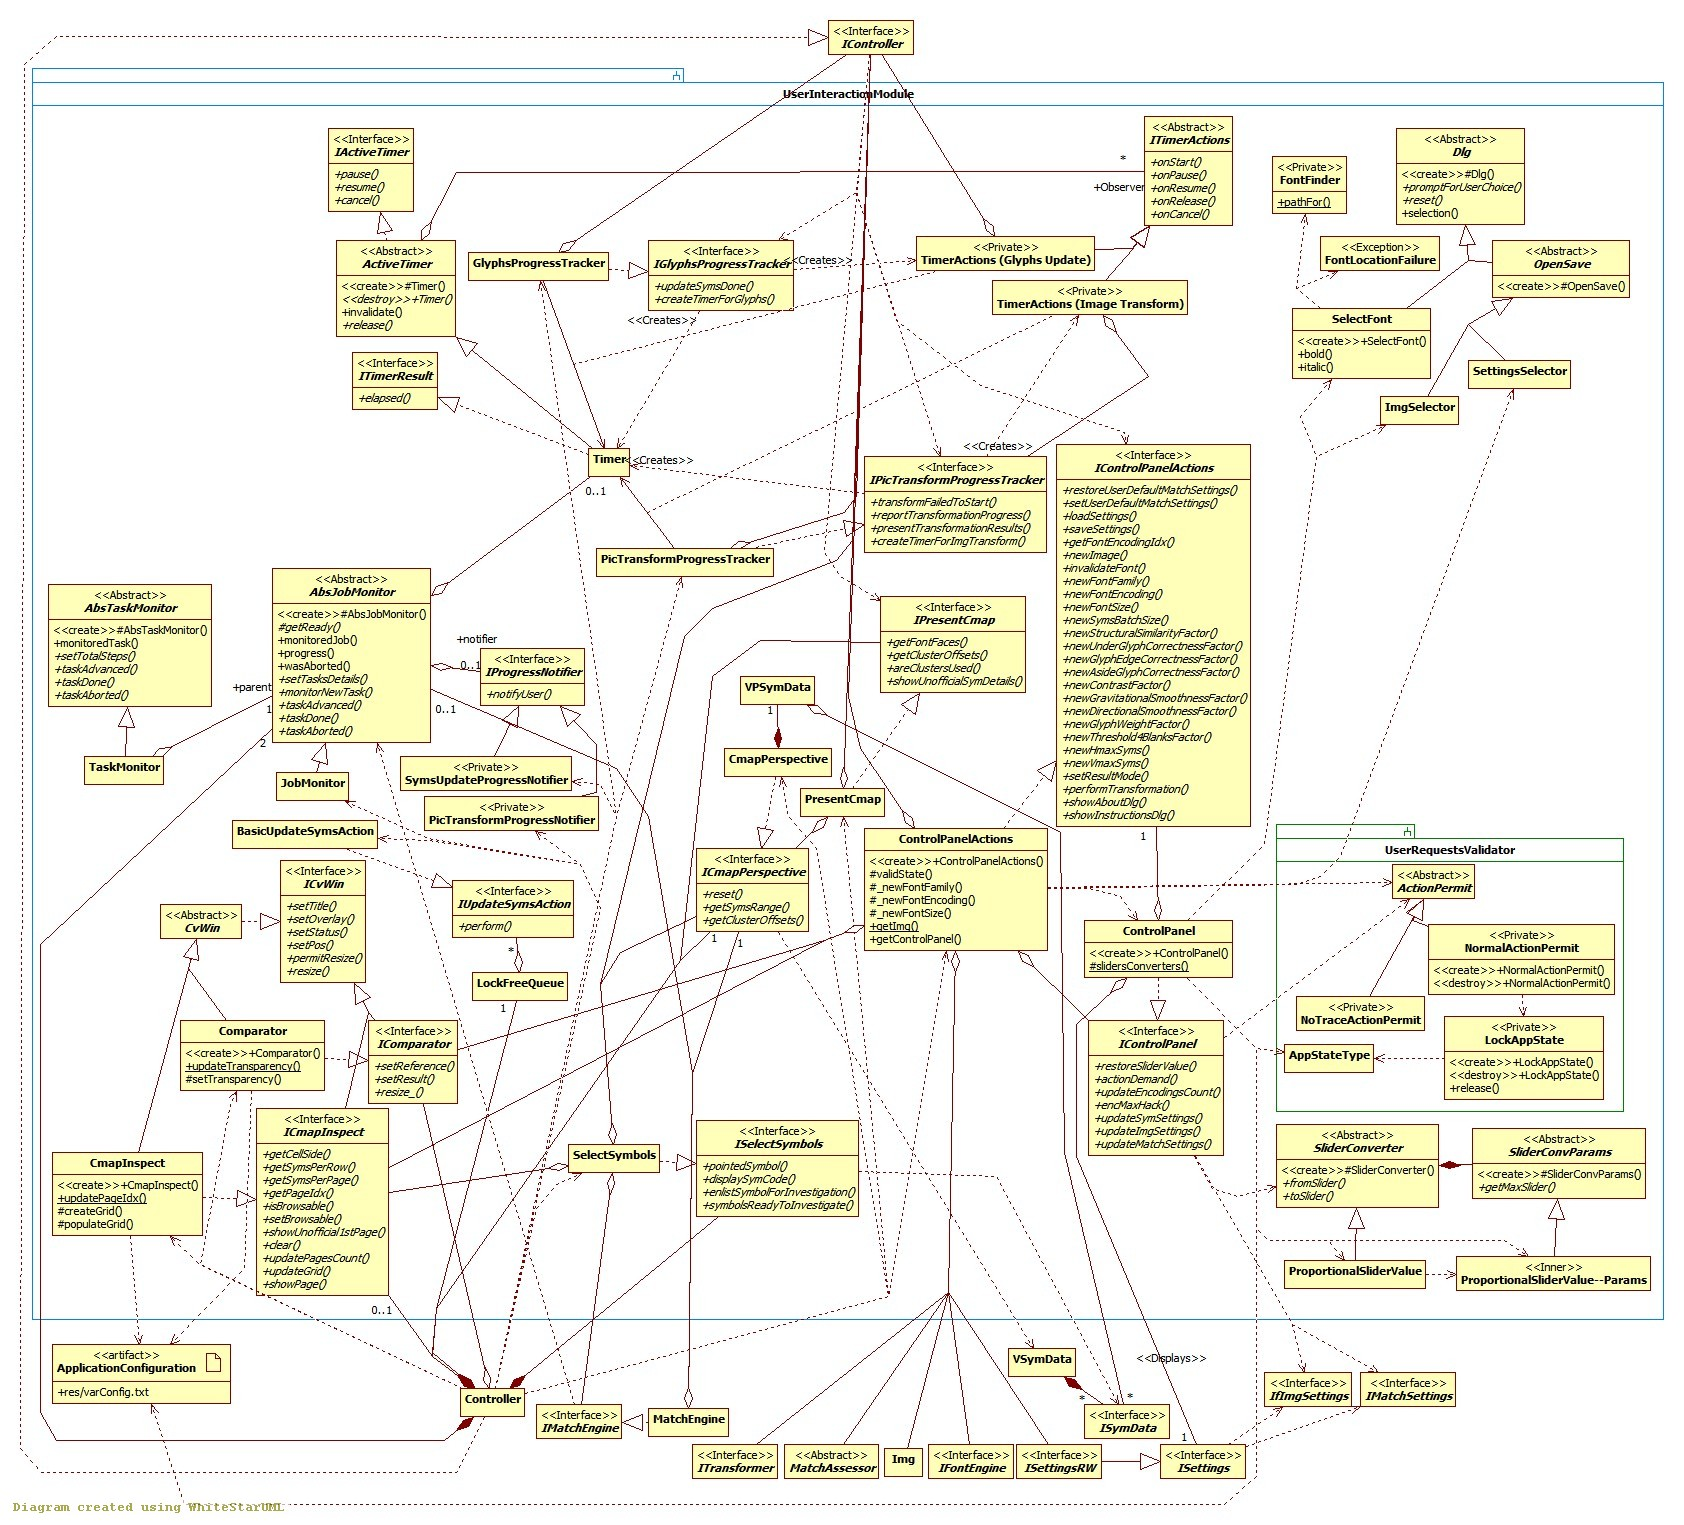
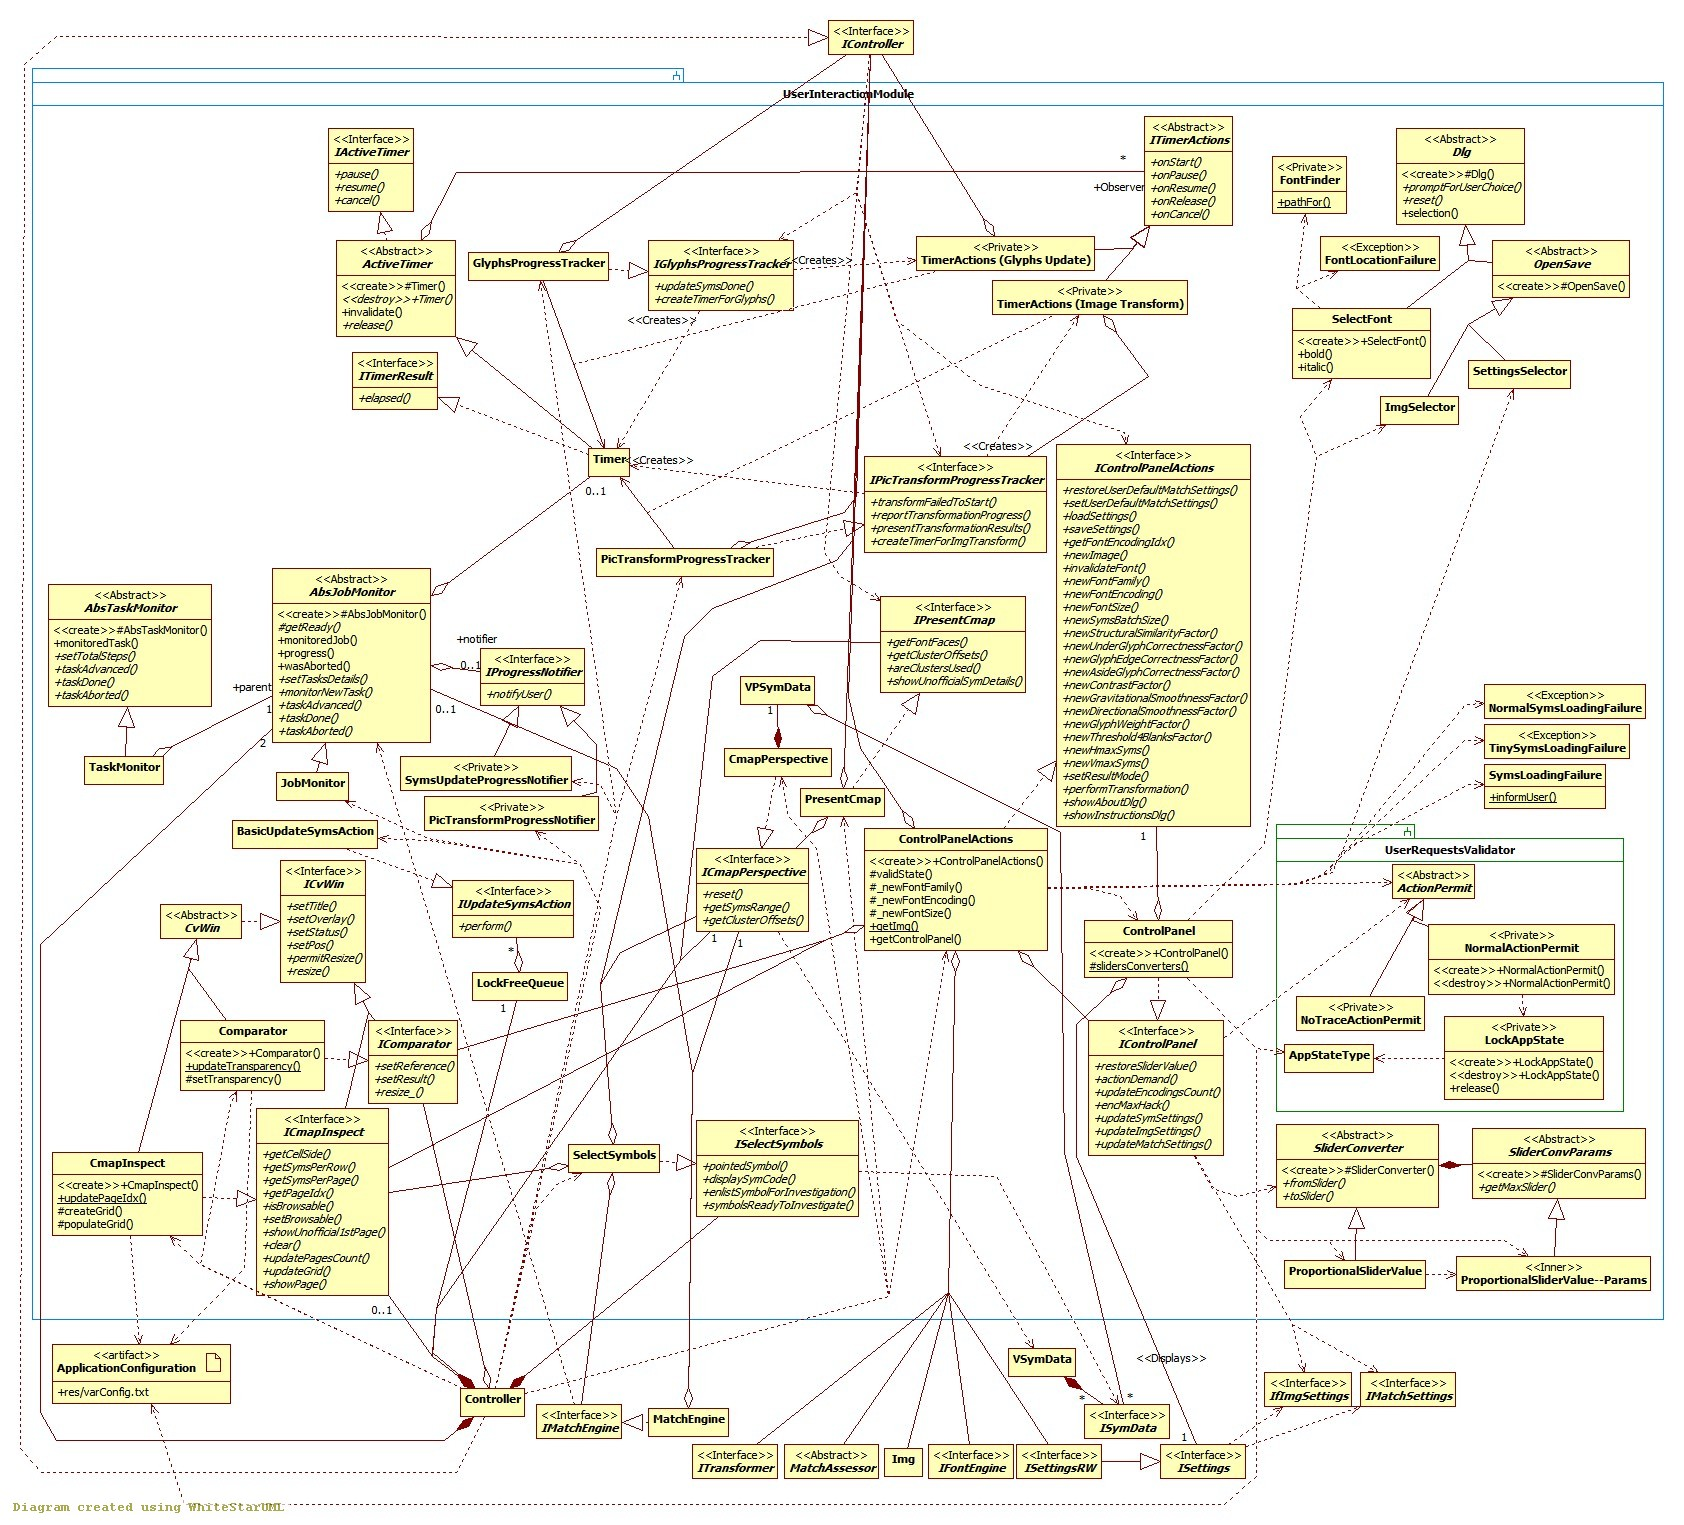
[design] Tackled the `Refused Bequest` findings around the SymsLoadingFailure class
This were issues detected by AI Reviewer.

Changed region(s): [[0.8646, 0.4315, 0.9881, 0.5548]]

diff --git a/src/controlPanelActions.cpp b/src/controlPanelActions.cpp
@@ -240,13 +240,15 @@ bool ControlPanelActions::loadSettings(const stringType &from/* = ""*/) {
 
 	try {
 		ctrler.symbolsChanged();
-	} catch(TinySymsLoadingFailure &tslf) {
+	} catch(TinySymsLoadingFailure&) {
 		invalidateFont();
-		tslf.informUser("Couldn't load the tiny versions of the font pointed by this settings file!");
+		SymsLoadingFailure::informUser("Couldn't load the tiny versions of the font pointed "
+									   "by this settings file!");
 		return false;
-	} catch(NormalSymsLoadingFailure &nslf) {
+	} catch(NormalSymsLoadingFailure&) {
 		invalidateFont();
-		nslf.informUser("Couldn't load the normal versions of the font pointed by this settings file!");
+		SymsLoadingFailure::informUser("Couldn't load the normal versions of the font pointed "
+									   "by this settings file!");
 		return false;
 	}
 
@@ -379,12 +381,14 @@ void ControlPanelActions::newFontFamily(const stringType &fontFile) {
 
 	try {
 		ctrler.symbolsChanged();
-	} catch(TinySymsLoadingFailure &tslf) {
+	} catch(TinySymsLoadingFailure&) {
 		invalidateFont();
-		tslf.informUser("Couldn't load the tiny versions of the newly selected font family!");
-	} catch(NormalSymsLoadingFailure &nslf) {
+		SymsLoadingFailure::informUser("Couldn't load the tiny versions "
+									   "of the newly selected font family!");
+	} catch(NormalSymsLoadingFailure&) {
 		invalidateFont();
-		nslf.informUser("Couldn't load the normal versions of the newly selected font family!");
+		SymsLoadingFailure::informUser("Couldn't load the normal versions "
+									   "of the newly selected font family!");
 	}
 }
 
@@ -408,12 +412,14 @@ void ControlPanelActions::newFontEncoding(int encodingIdx) {
 
 	try {
 		ctrler.symbolsChanged();
-	} catch(TinySymsLoadingFailure &tslf) {
+	} catch(TinySymsLoadingFailure&) {
 		invalidateFont();
-		tslf.informUser("Couldn't load the tiny versions of the font whose encoding has been updated!");
-	} catch(NormalSymsLoadingFailure &nslf) {
+		SymsLoadingFailure::informUser("Couldn't load the tiny versions of the font "
+									   "whose encoding has been updated!");
+	} catch(NormalSymsLoadingFailure&) {
 		invalidateFont();
-		nslf.informUser("Couldn't load the normal versions of the font whose encoding has been updated!");
+		SymsLoadingFailure::informUser("Couldn't load the normal versions of the font "
+									   "whose encoding has been updated!");
 	}
 }
 
@@ -427,13 +433,15 @@ bool ControlPanelActions::newFontEncoding(const stringType &encName) {
 	if(result) {
 		try {
 			ctrler.symbolsChanged();
-		} catch(TinySymsLoadingFailure &tslf) {
+		} catch(TinySymsLoadingFailure&) {
 			invalidateFont();
-			tslf.informUser("Couldn't load the tiny versions of the font whose encoding has been updated!");
+			SymsLoadingFailure::informUser("Couldn't load the tiny versions of the font "
+										   "whose encoding has been updated!");
 			return false;
-		} catch(NormalSymsLoadingFailure &nslf) {
+		} catch(NormalSymsLoadingFailure&) {
 			invalidateFont();
-			nslf.informUser("Couldn't load the normal versions of the font whose encoding has been updated!");
+			SymsLoadingFailure::informUser("Couldn't load the normal versions of the font "
+										   "whose encoding has been updated!");
 			return false;
 		}
 	}
@@ -480,12 +488,13 @@ void ControlPanelActions::newFontSize(int fontSz) {
 
 	try {
 		ctrler.symbolsChanged();
-	} catch(TinySymsLoadingFailure &tslf) {
+	} catch(TinySymsLoadingFailure&) {
 		invalidateFont();
-		tslf.informUser("Couldn't load the tiny versions of the font whose size has been updated!");
-	} catch(NormalSymsLoadingFailure &nslf) {
+		SymsLoadingFailure::informUser("Couldn't load the tiny versions of the font "
+									   "whose size has been updated!");
+	} catch(NormalSymsLoadingFailure&) {
 		invalidateFont();
-		nslf.informUser("Couldn't load the requested size versions of the fonts!");
+		SymsLoadingFailure::informUser("Couldn't load the requested size versions of the fonts!");
 	}
 }
 

diff --git a/src/symsLoadingFailure.h b/src/symsLoadingFailure.h
@@ -45,30 +45,31 @@
 
 #pragma warning ( pop )
 
-/// Base exception class for easier catching and handling failures while loading normal / tiny symbols
-class SymsLoadingFailure /*abstract*/ : public std::runtime_error {
-protected:
-	explicit SymsLoadingFailure(const std::stringType &_Message);
-	explicit SymsLoadingFailure(const char *_Message);
-
-public:
-#ifdef AI_REVIEWER_CHECK // Without this virtual destructor, AI Reviewer signals Refused Bequest for the derived types
-	virtual ~SymsLoadingFailure() = 0 {}
-#endif // AI_REVIEWER_CHECK defined
-
-	void informUser(const std::stringType &msg) const; ///< informs the user about the problem
-};
-
-/// Distinct exception class for easier catching and handling failures while loading tiny symbols
-struct TinySymsLoadingFailure : SymsLoadingFailure {
+/// Catching and handling failures while loading tiny symbols.
+struct TinySymsLoadingFailure : std::runtime_error {
 	explicit TinySymsLoadingFailure(const std::stringType &_Message);
-	explicit TinySymsLoadingFailure(const char *_Message);
 };
 
-/// Distinct exception class for easier catching and handling failures while loading normal symbols
-struct NormalSymsLoadingFailure : SymsLoadingFailure {
+/// Catching and handling failures while loading normal symbols
+struct NormalSymsLoadingFailure : std::runtime_error {
 	explicit NormalSymsLoadingFailure(const std::stringType &_Message);
-	explicit NormalSymsLoadingFailure(const char *_Message);
+};
+
+/**
+Substitute of a free function concerning the failure of loading a symbol set.
+
+Previously, this was the base class of the 2 exception types from above.
+
+It was a clear case of `Refused Bequest` (as signaled by AI Reviewer), since:
+- the 2 exception types need only separate catch clauses and never a common one
+- the only method from SymsLoadingFailure appears rather static,
+	thus the exception types cannot override it
+
+So the inheritance was not necessary and this approach also solves the `Refused Bequest` issue.
+*/
+struct SymsLoadingFailure {
+	/// Informs the user about the problem around loading a new set of symbols
+	static void informUser(const std::stringType &msg);
 };
 
 #endif // H_SYMS_LOADING_FAILURE

diff --git a/src/symsLoadingFailure.cpp b/src/symsLoadingFailure.cpp
@@ -49,26 +49,14 @@ using namespace std;
 
 extern const stringType CannotLoadFontErrSuffix;
 
-SymsLoadingFailure::SymsLoadingFailure(const stringType& _Message) :
+TinySymsLoadingFailure::TinySymsLoadingFailure(const stringType& _Message) :
 	runtime_error(_Message.c_str()) {}
 
-SymsLoadingFailure::SymsLoadingFailure(const char *_Message) :
-	runtime_error(_Message) {}
+NormalSymsLoadingFailure::NormalSymsLoadingFailure(const stringType& _Message) :
+	runtime_error(_Message.c_str()) {}
 
-void SymsLoadingFailure::informUser(const stringType &msg) const {
+void SymsLoadingFailure::informUser(const stringType &msg) {
 	ostringstream oss;
 	oss<<msg<<CannotLoadFontErrSuffix;
 	infoMsg(oss.str(), "Manageable Error");
 }
-
-TinySymsLoadingFailure::TinySymsLoadingFailure(const stringType& _Message) :
-	SymsLoadingFailure(_Message.c_str()) {}
-
-TinySymsLoadingFailure::TinySymsLoadingFailure(const char *_Message) :
-	SymsLoadingFailure(_Message) {}
-
-NormalSymsLoadingFailure::NormalSymsLoadingFailure(const stringType& _Message) :
-	SymsLoadingFailure(_Message.c_str()) {}
-
-NormalSymsLoadingFailure::NormalSymsLoadingFailure(const char *_Message) :
-	SymsLoadingFailure(_Message) {}

diff --git a/src/transform.cpp b/src/transform.cpp
@@ -239,11 +239,11 @@ void Transformer::run() {
 
 	try {
 		me.updateSymbols(); // throws for invalid cmap/size
-	} catch(TinySymsLoadingFailure &tslf) {
+	} catch(TinySymsLoadingFailure&) {
 		timer.invalidate();
 		ptpt.transformFailedToStart();
-		tslf.informUser("Couldn't load the tiny versions of the selected font, "
-						"thus the transformation was aborted!");
+		SymsLoadingFailure::informUser("Couldn't load the tiny versions of the selected font, "
+									   "thus the transformation was aborted!");
 		return;
 	}
 

diff --git a/doc/pages/appendix/modules/symbolsProvider.md b/doc/pages/appendix/modules/symbolsProvider.md
@@ -6,7 +6,7 @@
 
 ![](SymProvider_classes.jpg)<br>
 
-The ***(I)ControlPanel*** uses the ***SelectFont*** to provide the symbols needed during image transformation. Whenever the data of a certain font type cannot be loaded / processed, exceptions like ***FontLocationFailure*** or ***SymsLoadingFailure*** are issued and handled.
+The ***(I)ControlPanel*** uses the ***SelectFont*** to provide the symbols needed during image transformation. Whenever the data of a certain font type cannot be loaded / processed, exceptions like ***FontLocationFailure***, ***NormalSymsLoadingFailure*** or ***TinySymsLoadingFailure*** are issued and handled.
 
 ***(I)FontEngine***:
 
